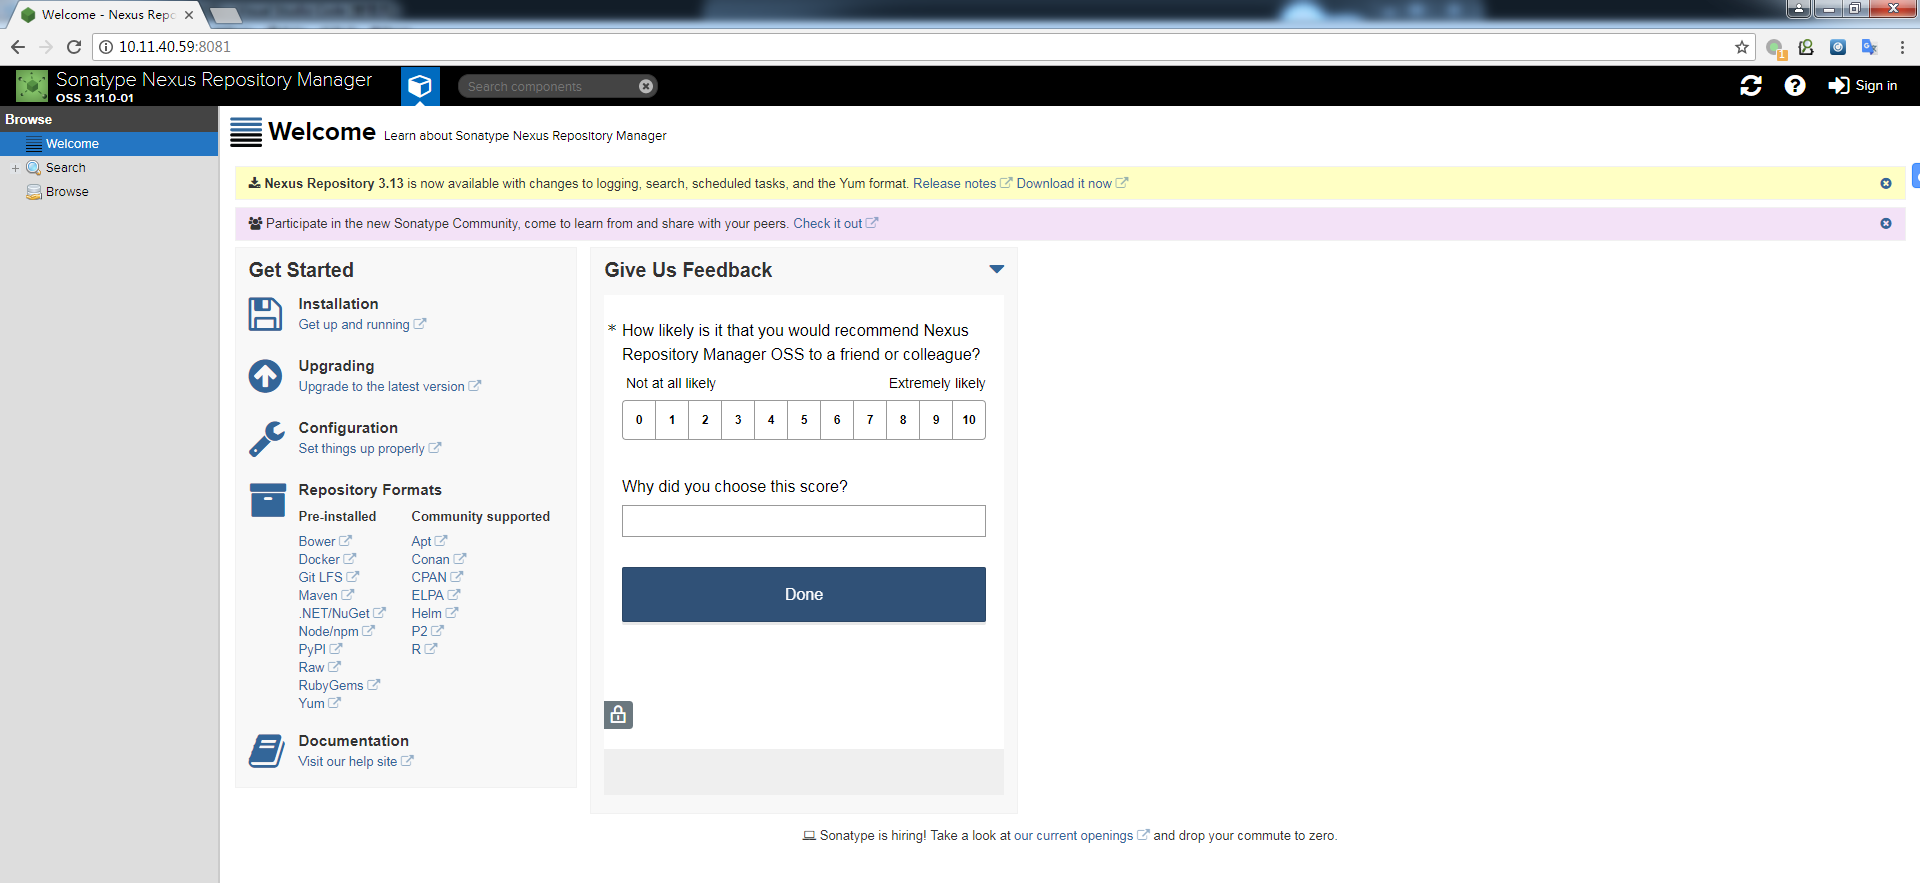
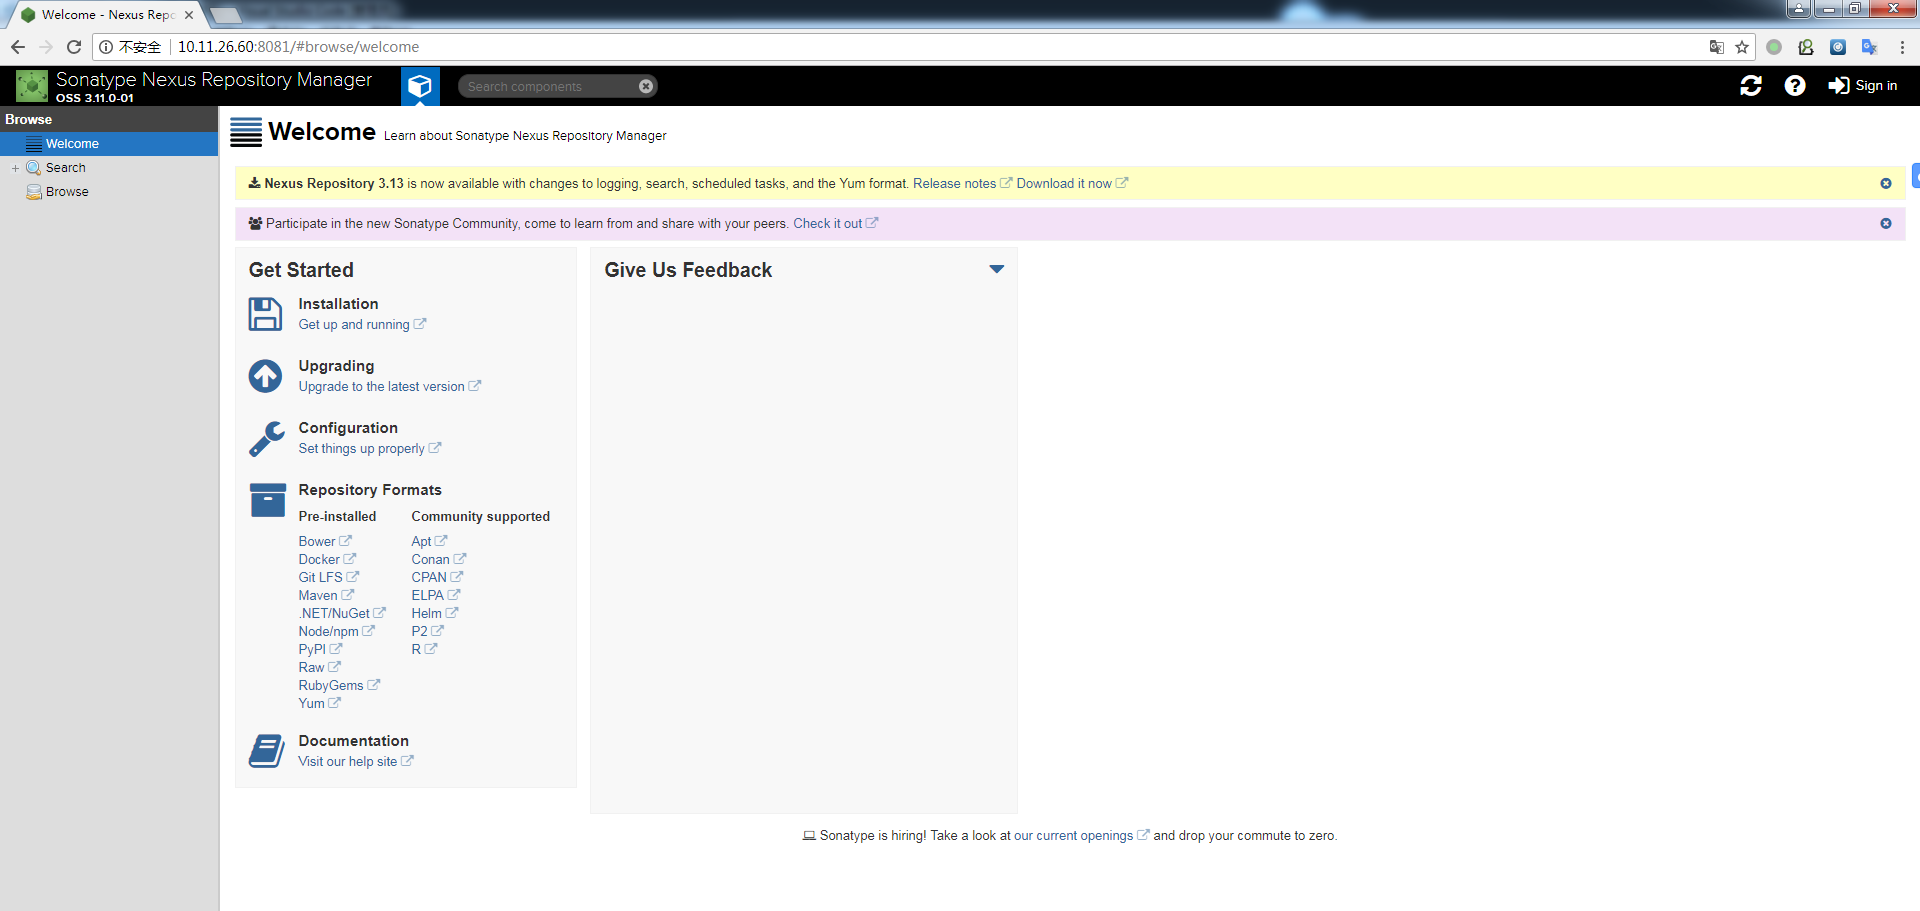
fix 修改文档细节

diff --git a/README.md b/README.md
@@ -3,8 +3,8 @@
 
 ## 文档目录结构:
 - [Shell脚本工具文档](docs/Shell脚本工具.md)
-- [k8s手动部署文档](docs/k8s-manual.md)
-- [k8s自动部署文档](docs/k8s-auto.md)
+- [k8s手动部署文档](docs/k8s手动部署.md)
+- [k8s自动部署文档](docs/k8s自动部署.md)
 - [NFS共享存储部署文档](docs/NFS共享存储.md)
 - [GitLab部署文档](docs/GitLab部署.md)
 - [Jenkins服务部署文档](docs/Jenkins部署.md)

diff --git a/docs/Nexus私库部署.md b/docs/Nexus私库部署.md
@@ -5,7 +5,7 @@
 - OS:          CentOS Linux release 7.4.1708 (Core)
 - Kernel:      3.10.0-693.el7.x86_64
 - nexus:       3.11.0-01
-- IP:          10.11.40.59
+- IP:          10.11.26.60
 - Port:        8081
 
 ## 1. Nexus服务部署:
@@ -59,7 +59,7 @@ PS: 等待一会才能看到,Java启动比较慢;
 
 ### 1.3 访问Nexus:
 ```
-http://10.11.40.59:8081
+http://10.11.26.60:8081
 
 默认用户密码:
 admin
